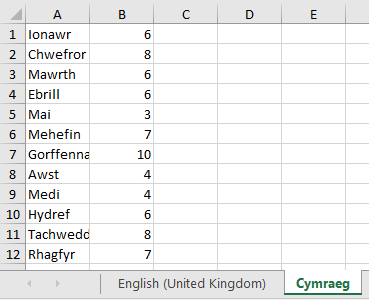
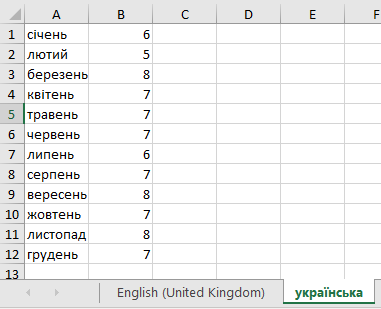
Change worksheets example to Ukrainian.

Changed region(s): [[0.0, 0.03, 1.0, 0.99]]

diff --git a/README.md b/README.md
@@ -514,10 +514,10 @@ open System.Globalization
         Cell [ Integer monthName.Length ]
         Go NewRow
 
-    let welshCulture = CultureInfo.GetCultureInfoByIetfLanguageTag("cy")
-    Worksheet welshCulture.NativeName
+    let ukrainianCulture = CultureInfo.GetCultureInfoByIetfLanguageTag("uk")
+    Worksheet ukrainianCulture.NativeName
     for m in 1..12 do
-        let monthName = welshCulture.DateTimeFormat.GetMonthName(m)
+        let monthName = ukrainianCulture.DateTimeFormat.GetMonthName(m)
         Cell [ String monthName ]
         Cell [ Integer monthName.Length ]
         Go NewRow
